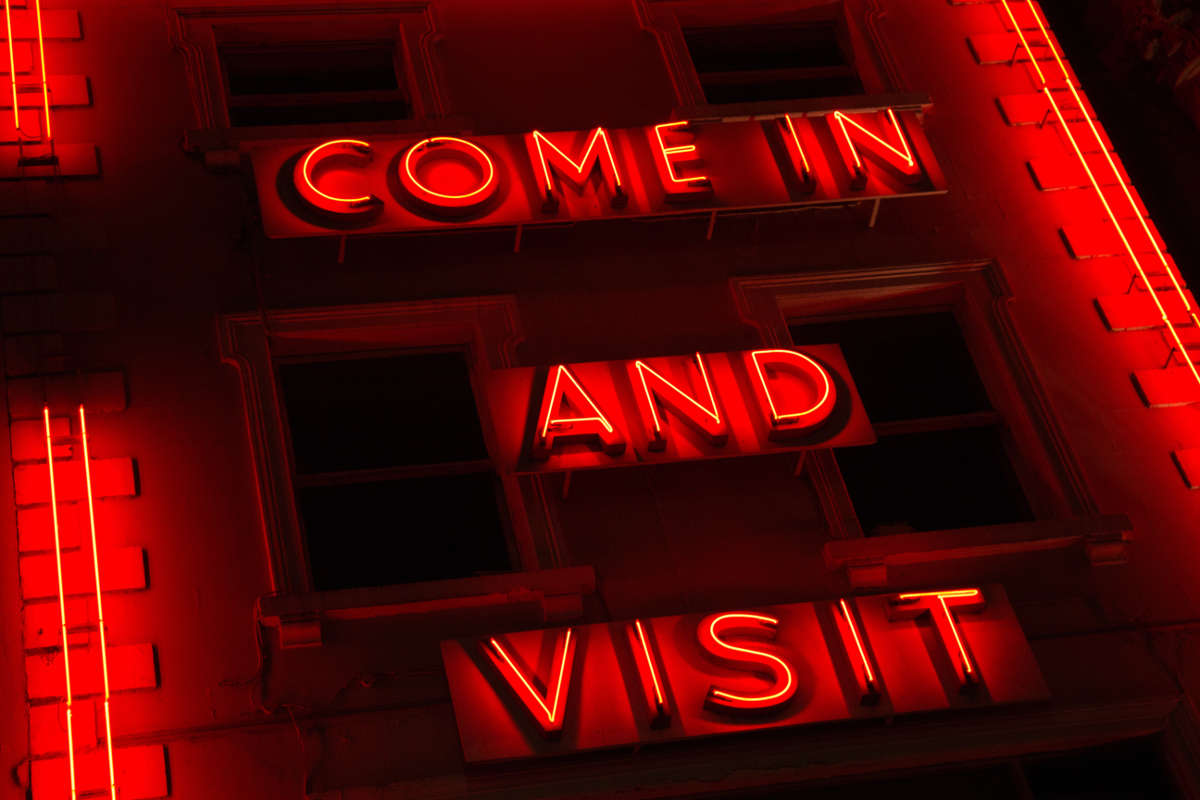
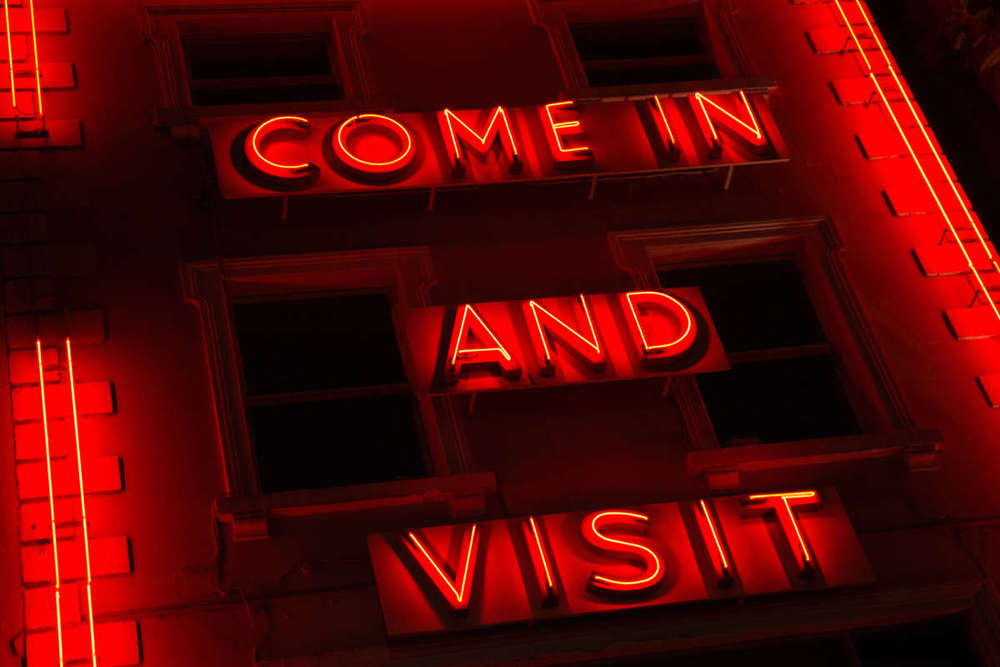
Cycle through images if more than one

diff --git a/src/data/stories.js b/src/data/stories.js
@@ -2,8 +2,12 @@ export const Stories = [
   {
     id: 1,
     title: "A Most Unpleasant Endeavour",
-    image: "images/amue-s.jpg",
-    altText: "Plushies climbing along a sheer cliff",
+    images: [
+      {
+        src: "images/amue-s.jpg",
+        altText: "Plushies climbing along a sheer cliff"
+      }
+    ],
     links: [
       {
         linkText: "Buy on Amazon",
@@ -18,9 +22,13 @@ export const Stories = [
   {
     id: 2,
     title: "Into the Strange",
-    image: "images/its-s.jpg",
-    altText:
-      "A child flying over a futuristic city with huge monsters below her",
+    images: [
+      {
+        src: "images/its-s.jpg",
+        altText:
+          "A child flying over a futuristic city with huge monsters below her"
+      }
+    ],
     links: [
       {
         linkText: "Buy on Amazon",
@@ -35,8 +43,16 @@ export const Stories = [
   {
     id: 3,
     title: "I Should Have Been a Barbarian",
-    image: "images/ishbab-s.jpg",
-    altText: "A knight battling an opponent",
+    images: [
+      {
+        src: "images/ishbab-s.jpg",
+        altText: "A knight battling an opponent"
+      },
+      {
+        src: "images/ishbab2-s.jpg",
+        altText: "A knight in armor"
+      }
+    ],
     links: [
       { linkText: "PDF", href: "pubs/ishbab.pdf" },
       { linkText: "EPUB", href: "pubs/ishbab.epub" }
@@ -49,8 +65,16 @@ export const Stories = [
   {
     id: 4,
     title: "Happy Fun Times Distribution",
-    image: "images/hftd-s.jpg",
-    altText: "Entrance of a seedy bar from the sidewalk outside",
+    images: [
+      {
+        src: "images/hftd-s.jpg",
+        altText: "Entrance of a seedy bar from the sidewalk outside"
+      },
+      {
+        src: "images/hftd2-s.jpg",
+        altText: "Red neon sign that reads come in and visit"
+      }
+    ],
     links: [
       { linkText: "PDF", href: "pubs/happy_fun_times_distribution.pdf" },
       { linkText: "EPUB", href: "pubs/happy_fun_times_distribution.epub" }
@@ -63,8 +87,20 @@ export const Stories = [
   {
     id: 5,
     title: "Boost",
-    image: "images/boost-s.jpg",
-    altText: "Gear shifter of a luxury sports car",
+    images: [
+      {
+        src: "images/boost-s.jpg",
+        altText: "Gear shifter of a luxury sports car"
+      },
+      {
+        src: "images/boost3-s.jpg",
+        altText: "Hooded man watching traffic flow by in city"
+      },
+      {
+        src: "images/boost2-s.jpg",
+        altText: "Man that is hidden in darkness wearing an omninous mask"
+      }
+    ],
     links: [
       { linkText: "PDF", href: "pubs/boost.pdf" },
       { linkText: "EPUB", href: "pubs/boost.epub" }
@@ -77,8 +113,12 @@ export const Stories = [
   {
     id: 6,
     title: "Across the Ashes",
-    image: "images/ata-s.jpg",
-    altText: "A single man on a lonely wasteland",
+    images: [
+      {
+        src: "images/ata-s.jpg",
+        altText: "A single man on a lonely wasteland"
+      }
+    ],
     links: [
       { linkText: "PDF", href: "pubs/across_the_ashes.pdf" },
       { linkText: "EPUB", href: "pubs/across_the_ashes.epub" }
@@ -91,8 +131,12 @@ export const Stories = [
   {
     id: 7,
     title: "Truck Stop",
-    image: "images/truck-stop-s.jpg",
-    altText: "Trucks moving down the highway",
+    images: [
+      {
+        src: "images/truck-stop-s.jpg",
+        altText: "Trucks moving down the highway"
+      }
+    ],
     links: [
       {
         linkText: "HTML",

diff --git a/src/components/Card.js b/src/components/Card.js
@@ -1,37 +1,45 @@
-import React from 'react';
-import PropTypes from 'prop-types';
+import React from "react";
+import PropTypes from "prop-types";
 
-import Chips from './Chips';
-import Links from './Links';
+import Chips from "./Chips";
+import Links from "./Links";
+import Image from "./Image";
 
 const Card = ({ story }) => {
+  function createMarkup() {
+    return { __html: story.description };
+  }
 
-    function createMarkup() {
-        return {__html: story.description};
+  return (
+    <div
+      className={
+        story.visible
+          ? "card scale-transition"
+          : "card scale-transition scale-out"
       }
-
-    return (
-        <div className={ (story.visible) ? 'card scale-transition' : 'card scale-transition scale-out'} >
-            <div className="card-image">
-                <img className="activator" alt={story.altText} src={story.image} />
-            </div>
-            <div className="card-content">
-                <span className="card-title grey-text text-darken-4">{story.title}</span>
-                <Chips 
-                    tags={story.tags} 
-                    storyType={story.storyType}    
-                />
-                <div className="story-description" dangerouslySetInnerHTML={createMarkup()} />
-                <div className="card-action">
-                    <Links links={story.links} />
-                </div>
-            </div>
+    >
+      <div className="card-image">
+        <Image images={story.images} />
+      </div>
+      <div className="card-content">
+        <span className="card-title grey-text text-darken-4">
+          {story.title}
+        </span>
+        <Chips tags={story.tags} storyType={story.storyType} />
+        <div
+          className="story-description"
+          dangerouslySetInnerHTML={createMarkup()}
+        />
+        <div className="card-action">
+          <Links links={story.links} />
         </div>
-    );
-}
+      </div>
+    </div>
+  );
+};
 
 Card.propTypes = {
-    story: PropTypes.object.isRequired  
+  story: PropTypes.object.isRequired
 };
 
 export default Card;

diff --git a/src/components/Image.js b/src/components/Image.js
@@ -1,0 +1,50 @@
+import React, { Component } from "react";
+import PropTypes from "prop-types";
+
+class Image extends Component {
+  state = {
+    imageIndex: 0
+  };
+
+  constructor(props) {
+    super(props);
+    this.images = this.props.images;
+  }
+
+  componentDidMount(props) {
+    let imagesArrayLength = this.images.length;
+
+    function randomNumber() {
+      return Math.floor(Math.random() * (12000 - 5000) + 5000);
+    }
+
+    if (imagesArrayLength > 1) {
+      setInterval(() => {
+        if (this.state.imageIndex < imagesArrayLength - 1) {
+          this.setState(prevState => ({
+            imageIndex: prevState.imageIndex + 1
+          }));
+        } else {
+          this.setState({ imageIndex: 0 });
+        }
+      }, randomNumber());
+    }
+  }
+
+  render() {
+    const { images } = this.props;
+
+    return (
+      <img
+        alt={images[this.state.imageIndex].altText}
+        src={images[this.state.imageIndex].src}
+      />
+    );
+  }
+}
+
+Image.propTypes = {
+  images: PropTypes.array.isRequired
+};
+
+export default Image;
